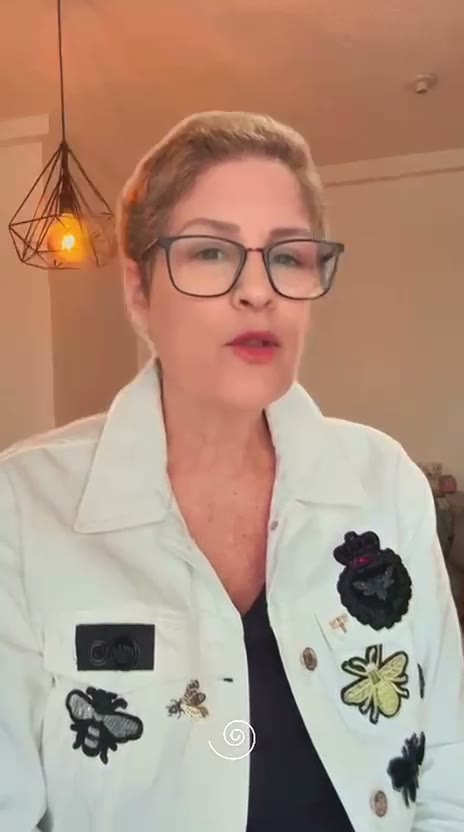
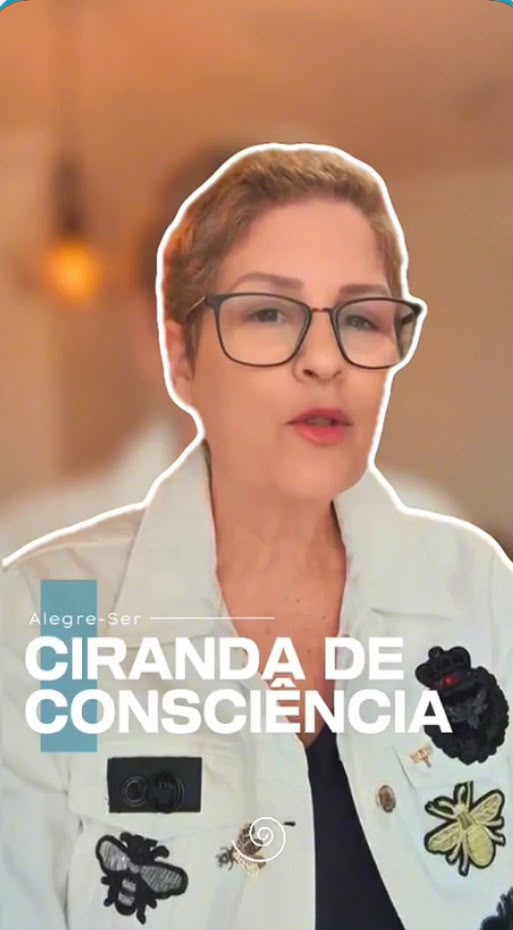
Adiciona vídeo da Chrys (Laboratório) e capas de marca dos 3 vídeos
- Terceiro card em "As facilitadoras apresentam": Chrys Hellen · Laboratório do
  Observador, na ordem da jornada (Ciranda -> Laboratório -> Espiral)
- Substitui os posters auto-gerados pelas artes de marca (Alegre-Ser + nome do
  serviço) nos 3 vídeos; object-fit: cover para preencher o quadro 9:16
- Subtítulo: "os três processos"

diff --git a/index.html b/index.html
@@ -134,14 +134,17 @@
     /* VÍDEOS — facilitadoras apresentam */
     .vids-grid { display: flex; gap: 48px; justify-content: center; flex-wrap: wrap; margin-top: 8px; }
     .vidcard { width: 300px; max-width: 100%; }
-    .vidcard__video { width: 100%; aspect-ratio: 9 / 16; background: #000; border-radius: var(--r-lg); display: block; box-shadow: 0 20px 54px rgba(0,0,0,.16); border-top: 4px solid var(--teal); }
+    .vidcard__video { width: 100%; aspect-ratio: 9 / 16; background: #000; border-radius: var(--r-lg); display: block; object-fit: cover; box-shadow: 0 20px 54px rgba(0,0,0,.16); border-top: 4px solid var(--teal); }
+    .vidcard--terra .vidcard__video { border-top-color: var(--terra); }
     .vidcard--amber .vidcard__video { border-top-color: var(--amber); }
     .vidcard__cap { text-align: center; margin-top: 20px; }
     .vidcard__arche { display: block; font-family: var(--head); font-size: 10px; font-weight: 700; letter-spacing: .2em; text-transform: uppercase; color: var(--teal); margin-bottom: 7px; }
+    .vidcard--terra .vidcard__arche { color: var(--terra-dk); }
     .vidcard--amber .vidcard__arche { color: var(--amber-dk); }
     .vidcard__name { display: block; font-family: var(--head); font-size: 20px; font-weight: 700; letter-spacing: -.02em; color: var(--text); }
     .vidcard__prog { display: block; font-size: 13.5px; color: var(--text-md); margin-top: 4px; }
     .vidcard__prog b { font-weight: 600; color: var(--teal-dk); }
+    .vidcard--terra .vidcard__prog b { color: var(--terra-dk); }
     .vidcard--amber .vidcard__prog b { color: var(--amber-dk); }
     @media (max-width: 640px) { .vids-grid { gap: 40px; } .vidcard { width: 268px; } }
     .s-head { margin-bottom: 56px; }
@@ -633,7 +636,7 @@
       <span class="eyebrow" style="color:var(--teal)">Na voz de quem cria</span>
       <div class="rule" style="background:var(--teal);margin:12px auto 20px"></div>
       <h2 class="s-title">As facilitadoras apresentam.</h2>
-      <p class="s-sub">Conheça dois dos nossos processos pela voz de quem os conduz.</p>
+      <p class="s-sub">Conheça os três processos pela voz de quem os conduz.</p>
     </div>
 
     <div class="vids-grid">
@@ -647,6 +650,18 @@
           <span class="vidcard__arche">A Transmissora Estelar</span>
           <span class="vidcard__name">Robertha Aranha</span>
           <span class="vidcard__prog">apresenta a <b>Ciranda de Consciência</b></span>
+        </figcaption>
+      </figure>
+
+      <figure class="vidcard vidcard--terra">
+        <video class="vidcard__video" controls preload="metadata" playsinline poster="videos/chrys-laboratorio-do-observador-poster.jpg">
+          <source src="videos/chrys-laboratorio-do-observador.mp4" type="video/mp4" />
+          Seu navegador não suporta vídeo.
+        </video>
+        <figcaption class="vidcard__cap">
+          <span class="vidcard__arche">A Polinizadora</span>
+          <span class="vidcard__name">Chrys Hellen</span>
+          <span class="vidcard__prog">apresenta o <b>Laboratório do Observador</b></span>
         </figcaption>
       </figure>
 